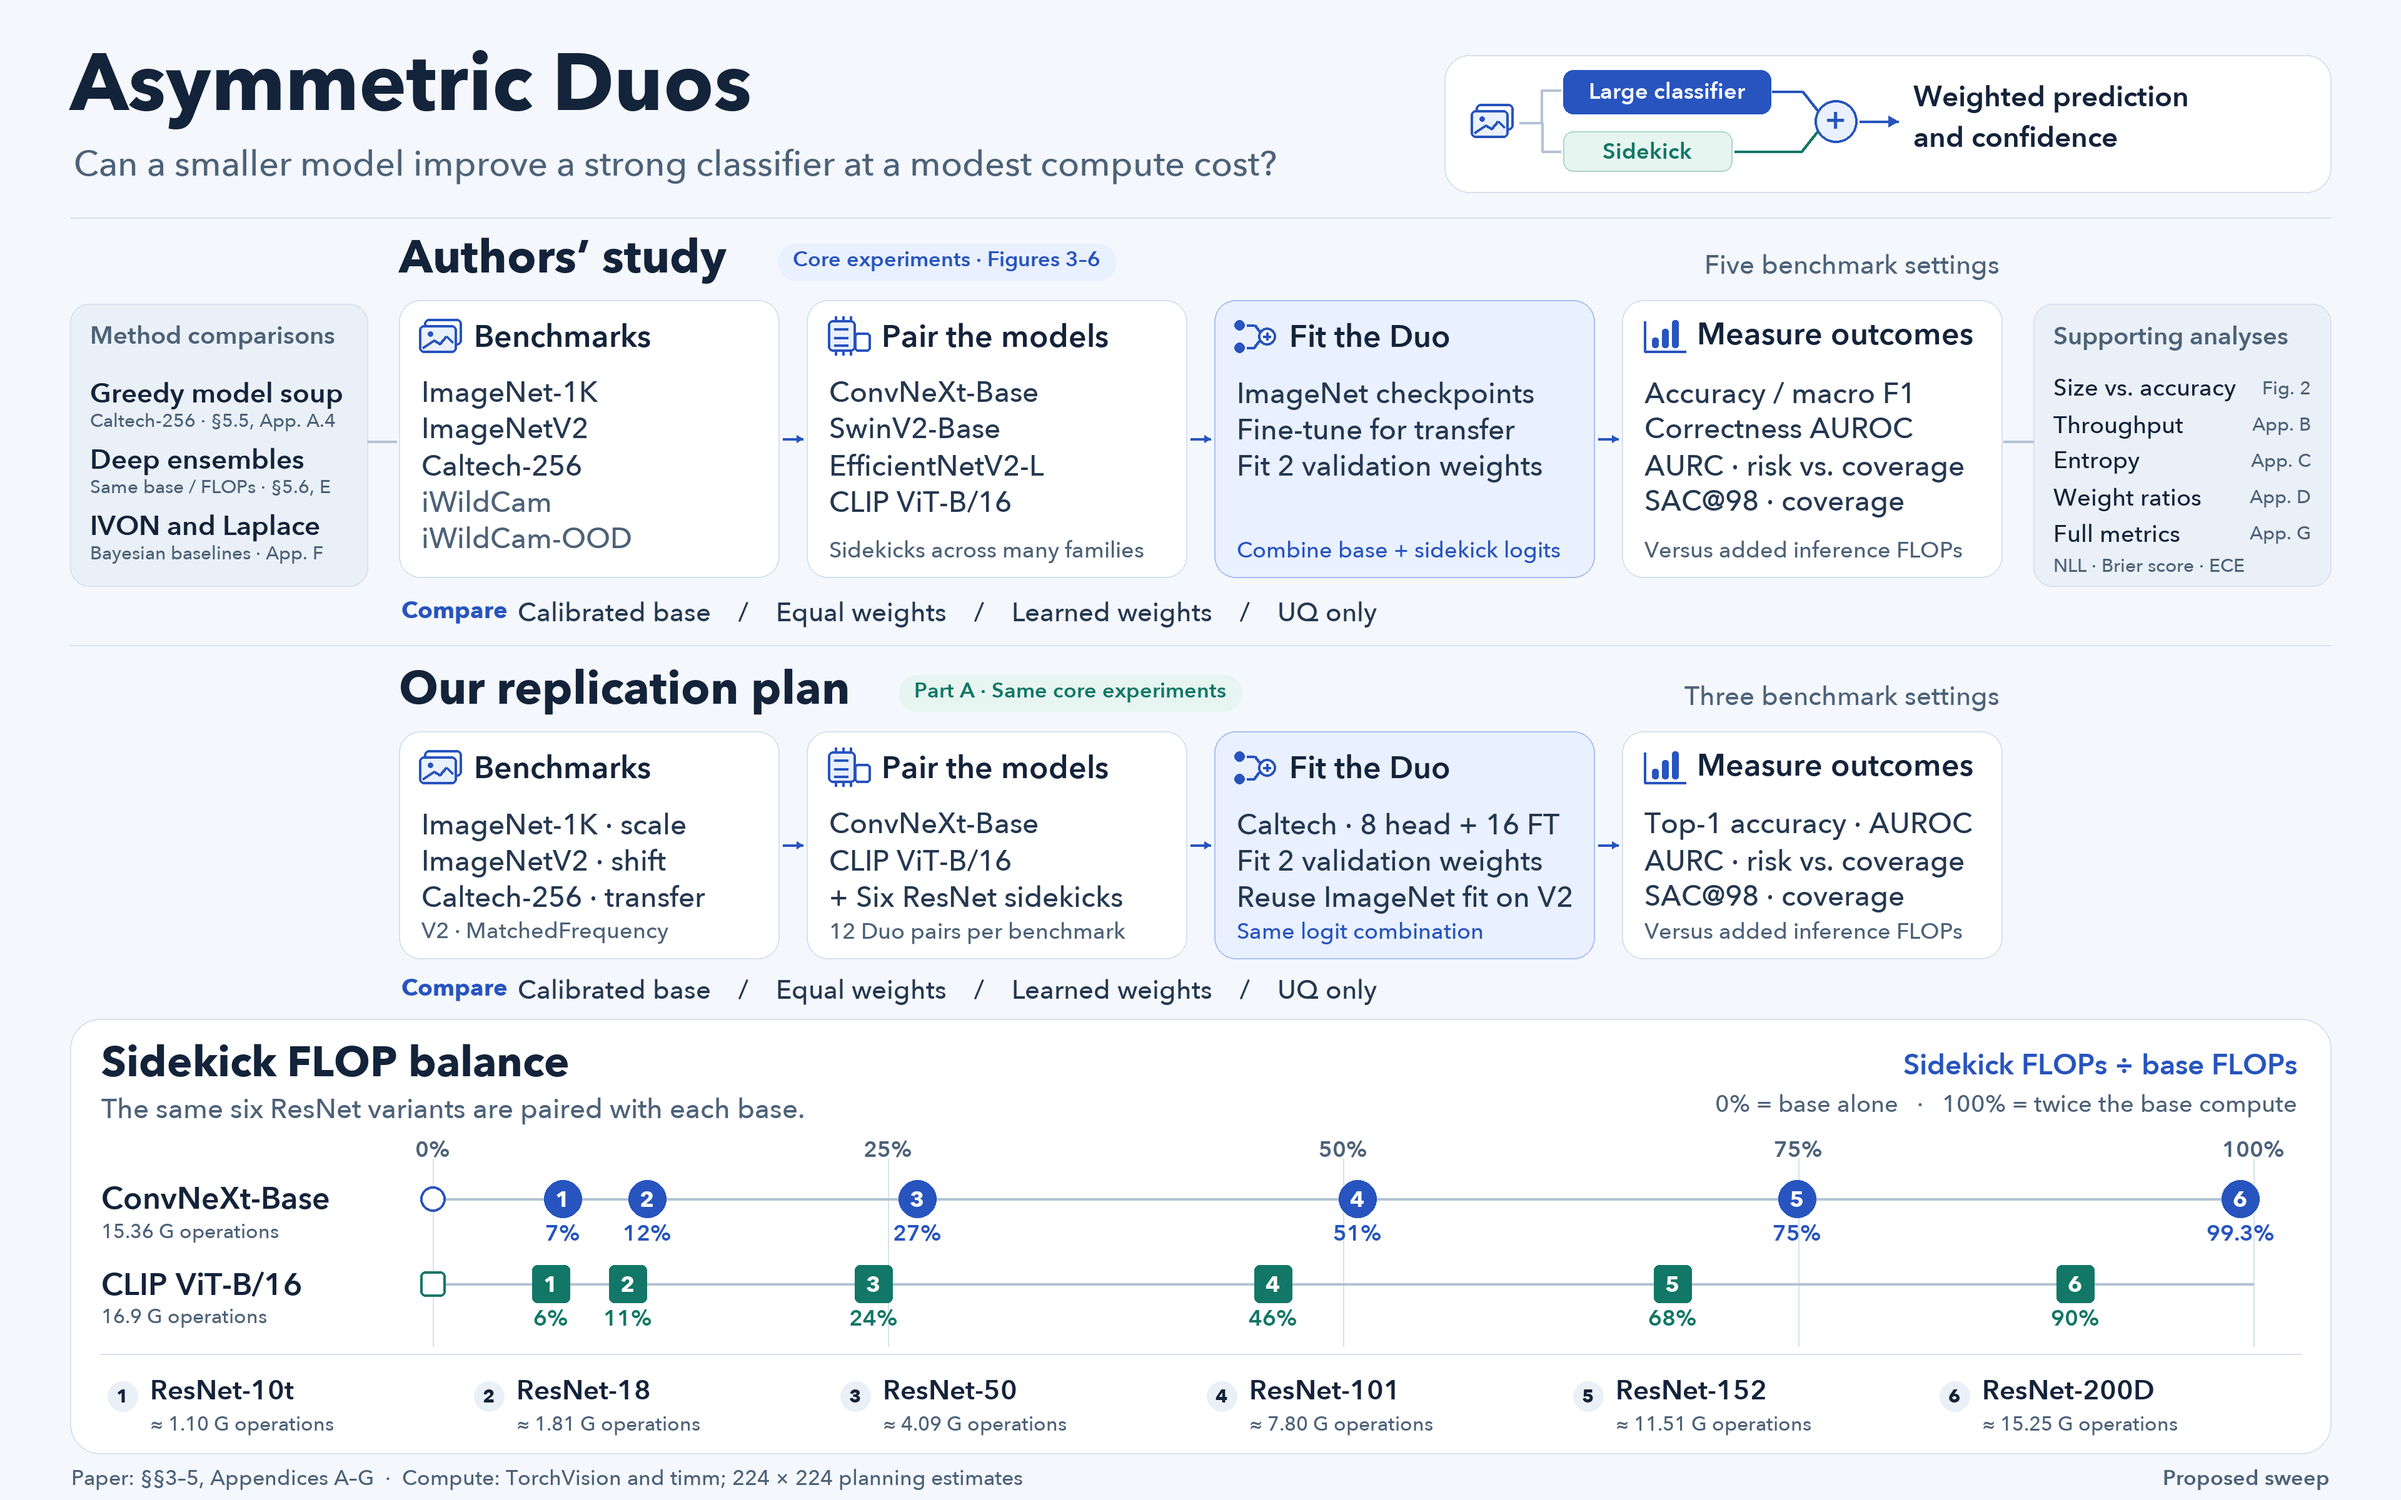
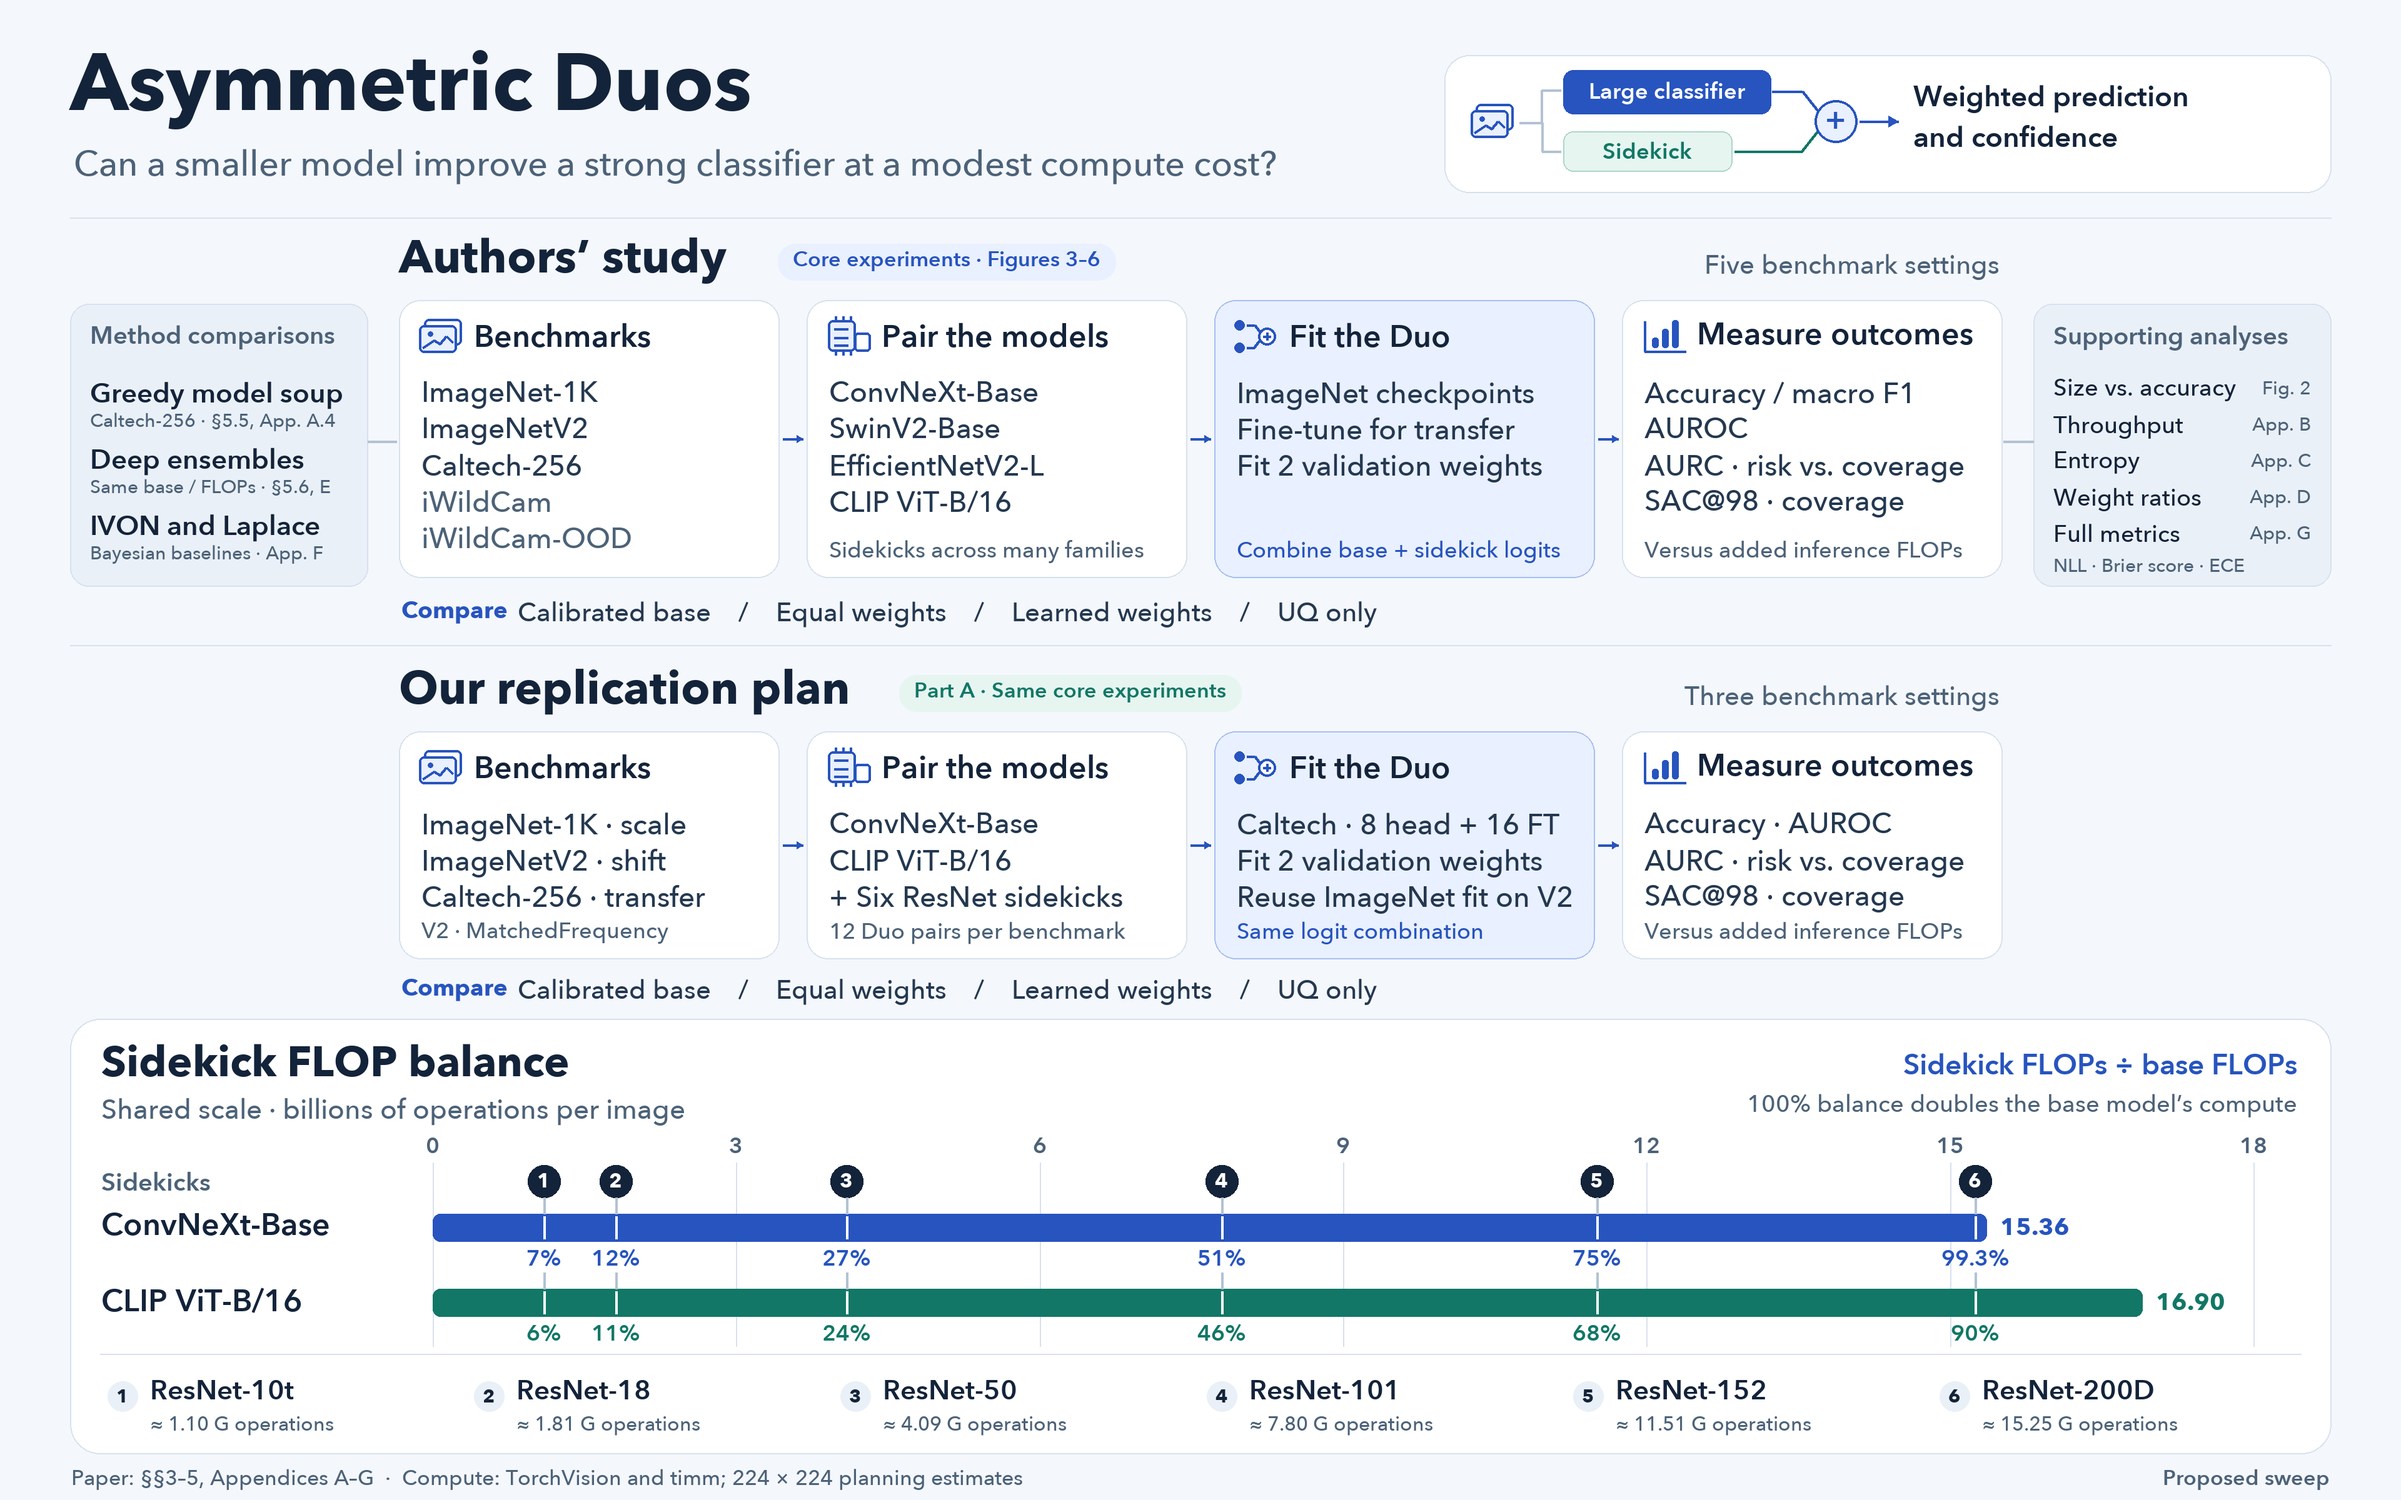
Clarify replication metrics and methodology
Revise the README to clarify comparison goals, metric definitions, split reproducibility, and reproduction procedures. Update the replication diagram and its alt text to better describe the FLOP chart.

diff --git a/README.md b/README.md
@@ -14,7 +14,7 @@ An ensemble of similarly sized classifiers adds roughly one model’s inference 
 
 ## Our replication method
 
-![The authors’ experiment pipeline and supporting studies above our narrower replication plan, with estimated FLOP balance for six ResNet sidekicks](assets/asymmetric-duos-replication.png)
+![The authors’ experiment pipeline above our narrower replication plan. The FLOP chart aligns six ResNet sidekicks on one scale and uses bars of different lengths for the two base models.](assets/asymmetric-duos-replication.png)
 
 *The upper pipeline maps the authors’ core experiments and supporting studies. The lower pipeline shows our replication scope. The FLOP values are planning estimates.*
 
@@ -40,7 +40,7 @@ We pair each base with **ResNet-10T, ResNet-18, ResNet-50, ResNet-101, ResNet-15
 
 ### Comparisons and compute
 
-We compare the temperature-scaled base, an equal-weight Duo, the learned-weight Duo, and the UQ-only ablation. We report top-1 accuracy, correctness prediction AUROC, AURC, and SAC@98 against FLOP balance. Appendix G Figures 11 and 14 provide Caltech-256 references for the two chosen bases. The paper’s model soups, deep ensembles, Bayesian baselines, and supporting analyses give context for the core figures.
+We compare the temperature-scaled base, an equal-weight Duo, the learned-weight Duo, and UQ-only. Comparing the two weighting schemes tests whether learning the weights helps. UQ-only tests whether the Duo improves confidence estimates when the predicted class stays fixed. We report accuracy, AUROC, AURC, and SAC@98 against FLOP balance. Appendix G Figures 11 and 14 provide Caltech-256 references for the two chosen bases. The paper’s model soups, deep ensembles, Bayesian baselines, and supporting analyses give context for the core figures.
 
 The paper describes FLOPs per forward pass in §3.2 and in Figure 2. The released evaluator reads precomputed GFLOP values from model and pair metadata. The paper and public code do not identify the counter used to produce those values. We will use [`fvcore.nn.FlopCountAnalysis`](https://github.com/facebookresearch/fvcore/blob/main/docs/flop_count.md) for one 224 × 224 image in evaluation mode. It counts a multiply-add as one operation. For counting, we will disable fused attention in `timm` so the ViT’s attention matrix multiplications are visible to the tracer. We will record the counter version, input shape, and any unsupported operators with the results.
 
@@ -52,23 +52,20 @@ The paper describes FLOPs per forward pass in §3.2 and in Figure 2. The release
 | **Linear probing (LP) and fine-tuning (FT)** | Train only the classifier head with the pretrained backbone frozen, then unfreeze and train the entire model on the new task. |
 | **Temperature scaling** | Rescaling logits with a positive temperature fitted on validation data. For one classifier this changes probabilities while preserving the predicted class. The Duo fits two coefficients to control how much each model contributes. |
 | **Softmax confidence and uncertainty** | Confidence is the softmax probability assigned to the class the method predicts. The paper’s main uncertainty score is one minus that confidence. |
-| **UQ-only** | An ablation that keeps the base model’s predicted class and uses the Duo’s probability for that class as confidence. It tests whether the sidekick improves uncertainty when the prediction stays fixed. |
+| **UQ-only** | Keeps the base model’s predicted class and uses the Duo’s probability for that class as confidence. |
 | **FLOP balance** | Sidekick inference FLOPs divided by base inference FLOPs, expressed as a percentage. The base alone is 0%. A 100% balance adds a second model of equal compute and doubles total model FLOPs. |
-| **Top-1 accuracy ↑** | The fraction of images whose highest-scoring class matches the ground truth. |
-| **Macro F1 ↑** | The average of per-class F1 scores, with every class given equal weight. The paper uses it for the class-imbalanced iWildCam evaluations. |
-| **Correctness prediction AUROC ↑** | Treats correct predictions as positives and errors as negatives. It measures how often a correct prediction gets higher confidence than an error, with ties counted as half. A value of 0.5 indicates chance ranking and 1 is perfect. |
+| **Accuracy ↑** | The fraction of images whose highest-scoring class matches the ground truth. |
+| **AUROC ↑** | Area under the ROC curve. Here it measures how well confidence ranks correct predictions above errors. For a randomly chosen correct prediction and error, it is the probability the correct one ranks higher, with ties counted as half. A value of 0.5 indicates chance ranking and 1 is perfect. |
 | **Coverage and risk** | Sort images from most to least confident. Coverage is the fraction on which the model still predicts. Risk is the error rate on those retained images. |
 | **AURC ↓** | Area under the risk–coverage curve, computed by averaging risk as progressively more predictions are kept. Lower is better. |
-| **SAC@98 ↑** | The largest fraction of test images the model can keep while achieving at least 98% accuracy on the retained predictions. |
+| **SAC@98 ↑** | Coverage at 98% accuracy. Rank the test images from most to least confident. Keep the largest group from the top that achieves at least 98% accuracy and abstain on the rest. If that group contains 600 of 1,000 images, SAC@98 is 60%. |
 | **Negative log-likelihood (NLL) ↓** | The average negative log of the probability assigned to the true class. It is the objective used to fit the Duo weights and a diagnostic for the extension. |
-| **Expected calibration error (ECE) ↓** | Groups predictions by confidence, then measures the gap between mean confidence and observed accuracy in each group, weighted by group size. |
-| **Brier score ↓** | The squared error between the predicted class probabilities and the true class encoded as a vector of zeros and a one. |
 
 ## Part A · Reproduction with the authors’ code
 
-On `partA`, we will reconstruct the splits, preprocessing, training, calibration, and evaluation as far as the paper and code specify them. The released split code uses seed 42 for ImageNet-1K and Caltech-256. We will record the actual sample IDs and class order so the same splits can be reused. Where settings are missing, including the public release’s omitted configuration files, we will record our choices and distinguish them from settings we can verify.
+On `partA`, we will reconstruct the splits, preprocessing, training, calibration, and evaluation as far as the paper and code specify them. The released split code uses seed 42 for ImageNet-1K and Caltech-256. The seed recreates the splits when the dataset version, sample order, and split procedure match. We will record those settings and check that both classifiers’ output indices match the dataset labels before combining their scores. Where settings are missing, including the public release’s omitted configuration files, we will record our choices and distinguish them from settings we can verify.
 
-We will keep the released evaluator’s behavior visible in the results. For example, it reuses the UQ-only confidence for the full weighted Duo, while §3.1 specifies that the full Duo scores confidence on its own predicted class. We will document this discrepancy and label any results computed with the paper’s definition. Part A covers the original static method and its ablations. The dynamic extension is reserved for Part B.
+We will keep the released evaluator’s behavior visible in the results. For example, it reuses the UQ-only confidence for the full weighted Duo, while §3.1 specifies that the full Duo scores confidence on its own predicted class. We will document this discrepancy and label any results computed with the paper’s definition. Part A covers the original fixed-weight method and the comparisons above. The dynamic extension is reserved for Part B.
 
 ## Part B · Paper-only reproduction with a hosted LLM
 
@@ -76,7 +73,7 @@ On `partB-LLM`, a hosted LLM will reimplement the original method using the pape
 
 1. **Restrict the model’s tools and inputs.** Turn off web browsing, search, GitHub and other connectors, external retrieval, and network-enabled execution tools. Keep the session separate from the repository and previous project chats. Give it no access to the authors’ code, Part A files or results, or this README.
 2. **Keep uncertainty visible.** Instruct the LLM to identify unspecified details and record its assumptions. The team will avoid consulting the reference source or web while developing the independent implementation. Datasets, framework packages, and public pretrained weights can be prepared separately for running the code.
-3. **Freeze the reproduction.** Log the hosted model, tool settings, prompts, assumptions, human edits, split IDs, and results. Freeze the paper-only implementation and its static baseline before sharing Part A results or beginning the extension.
+3. **Freeze the reproduction.** Log the hosted model, tool settings, prompts, assumptions, human edits, split settings, and results. Freeze the paper-only implementation and its static baseline before sharing Part A results or beginning the extension.
 
 ### Part B extension · Dynamic temperature weights
 
@@ -90,7 +87,7 @@ a(x)=\sigma\!\left(\operatorname{logit}(a_0)+\beta^\top\phi(x)\right),
 z_{\mathrm{dyn}}(x)=s\left[a(x)z_L(x)+(1-a(x))z_S(x)\right].
 $$
 
-With $\beta=0$, the gate recovers the static Duo. Holding $s$ fixed lets us test how reallocating weight between models affects the predictions. We will fit with regularized validation NLL and compare the static and dynamic Duos on the same held-out examples. AURC is our primary extension metric. We will also report the other core metrics, NLL, and gate overhead. A confidence-only ablation will test the contribution of the agreement feature. ImageNetV2 uses the gate fitted on ImageNet-1K.
+With $\beta=0$, the gate recovers the static Duo. Holding $s$ fixed lets us test how reallocating weight between models affects the predictions. We will fit with regularized validation NLL and compare the static and dynamic Duos on the same held-out examples. AURC is our primary extension metric. We will also report the other core metrics, NLL, and gate overhead. To see what the agreement feature adds, we will test the gate using confidence alone. ImageNetV2 uses the gate fitted on ImageNet-1K.
 
 ## Repository guide
 
